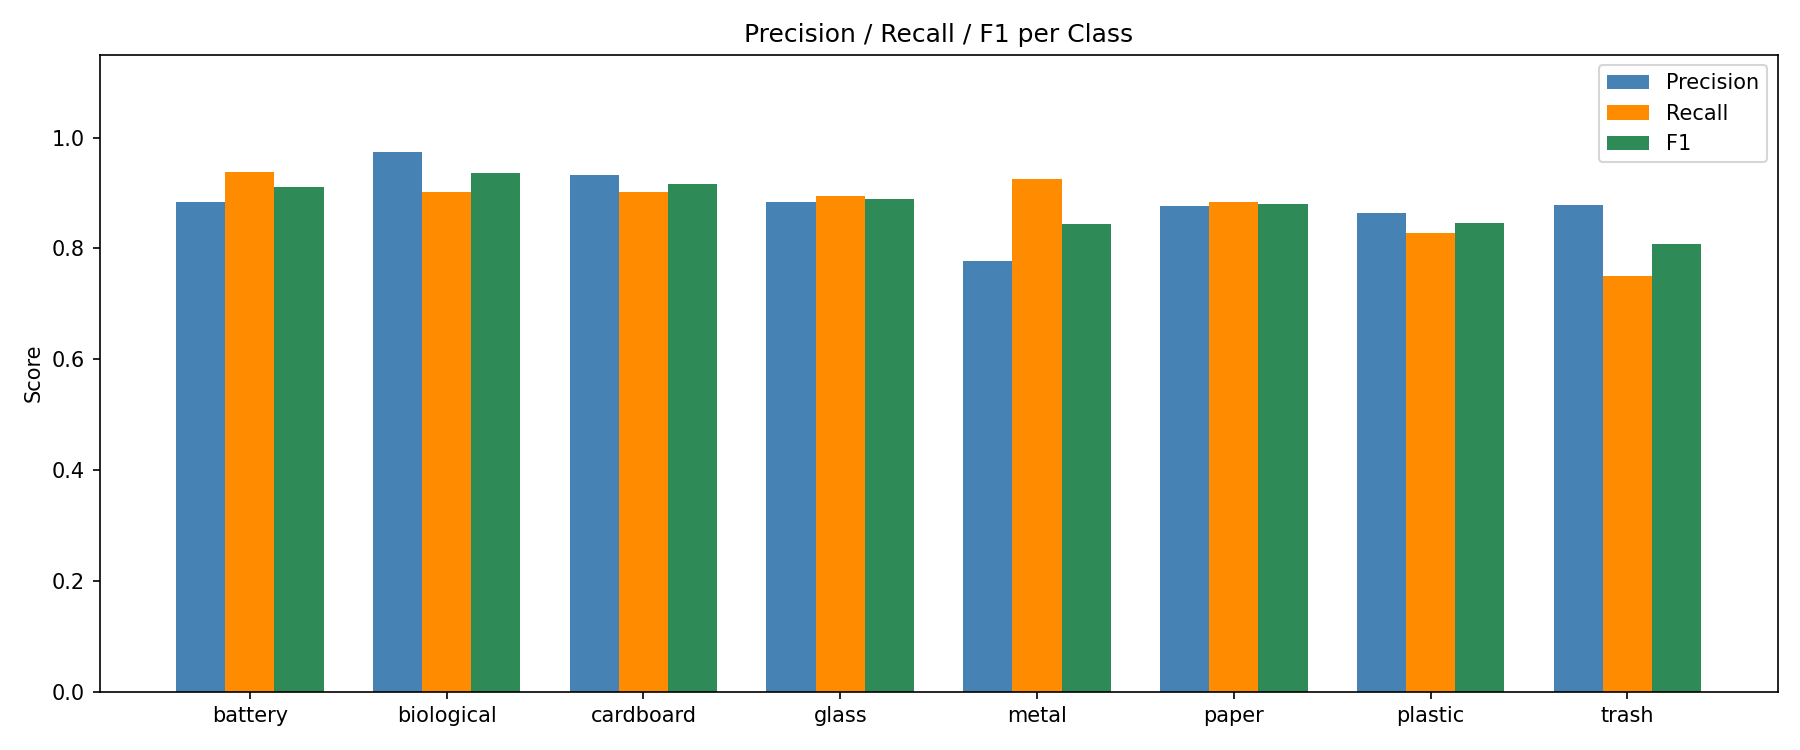
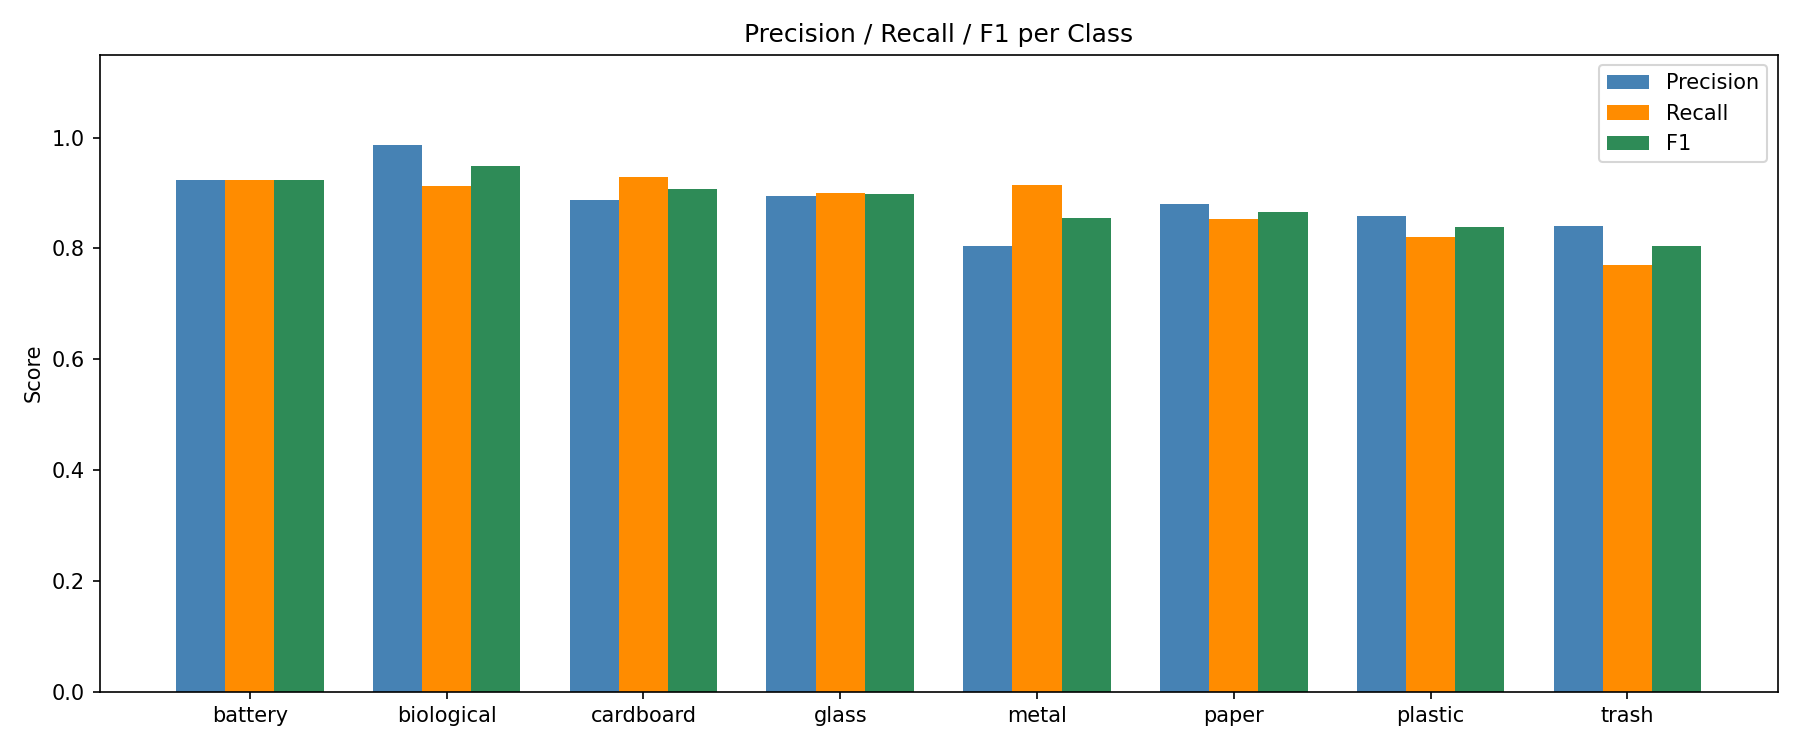
attempt 1 @ fixing overfitting

diff --git a/src/train.py b/src/train.py
@@ -20,7 +20,8 @@ criterion = nn.CrossEntropyLoss()
 
 optimizer = torch.optim.Adam(
     model.parameters(),
-    lr=LR
+    lr=LR,
+    weight_decay=1e-4
 )
 scheduler = torch.optim.lr_scheduler.StepLR(optimizer, step_size = 5, gamma = .5)
 best_val_loss = float('inf')

diff --git a/src/model.py b/src/model.py
@@ -9,4 +9,4 @@ model = models.resnet18(weights=models.ResNet18_Weights.DEFAULT)
 
 in_features = model.fc.in_features
 
-model.fc = nn.Sequential(nn.Dropout(0.5), nn.Linear(in_features, NUM_CLASSES))
+model.fc = nn.Sequential(nn.Dropout(0.6), nn.Linear(in_features, NUM_CLASSES))